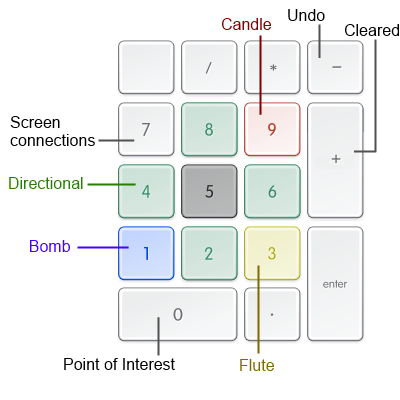
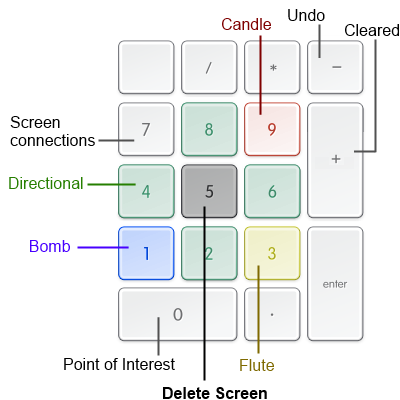
Updated readme and input image

Changed region(s): [[0.39, 0.51, 0.69, 1.0]]

diff --git a/README.md b/README.md
@@ -4,7 +4,31 @@ A general purpose tracker for Legend of Zelda. Suitable for randomizers.
 This is still a work in progress.
 
 # Input
-ZMapper uses global hotkeys so that you don't need to switch between programs if playing in an emulator. Currently, inputs are hardcoded and use the number pad:
+ZMapper lets you place and remove various markers indicating which screens 
+you've visited, what secrets you've checked for, and more. ZMapper uses global 
+hotkeys so that you don't need to switch between programs if playing in an 
+emulator. Currently, inputs are hardcoded and use the number pad.
 
 
+## Keyboard Input
 ![Input map](Input.png)
+* **Directional** - Move the cursor on the map. If the cursor moves onto an unvisited spot, it will be marked visited.
+* **Bomb** - Toggle bomb marker for bombable caves and dungeon walls. In dungeons, press this key followed by a directional to mark a wall which can not be bombed through.
+* **Candle** - Toggle candle marker for burnable bushes.
+* **Flute** - Toggle the recorder marker for secrets revealed by the recorder. 
+* **Screen connections** - Toggle screen connections. Draw borders around screens in the overworld, and draw connections between rooms in dungeons.
+* **Point of Interest** - Mark a screen as a point of interest.
+* **Cleared** - Mark a screen as cleared. In the overworld, a cleared screen will not show any other markers (bomb, flute, or candle), but you can press this key again to unclear the screen and restore the markers.
+* **Undo** - Undoes the last change made. This does not include revealing/hiding screens.
+* **Delete Screen** - Marks a screen as unvisited. Note that the state of markers and screen connections is preserved and will be restored when the screen is marked as visited again.
+
+## Mouse Input
+Mouse input is very simple and limited.
+
+Item Icons:
+* Left click - Mark an item obtained. For progressive items (e.g. Sword, White Sword, Magic Sword) each successive click advances to the next item level.
+* Right click - Mark an item unobtained. For progressive items, each successive click reverts the item to the previous level.
+
+Map:
+* Left click - Place the cursor on a screen and mark it visited.
+* Right click - Mark a screen as unvisited. Note that the state of markers and screen connections is preserved and will be restored when the screen is marked as visited again.
